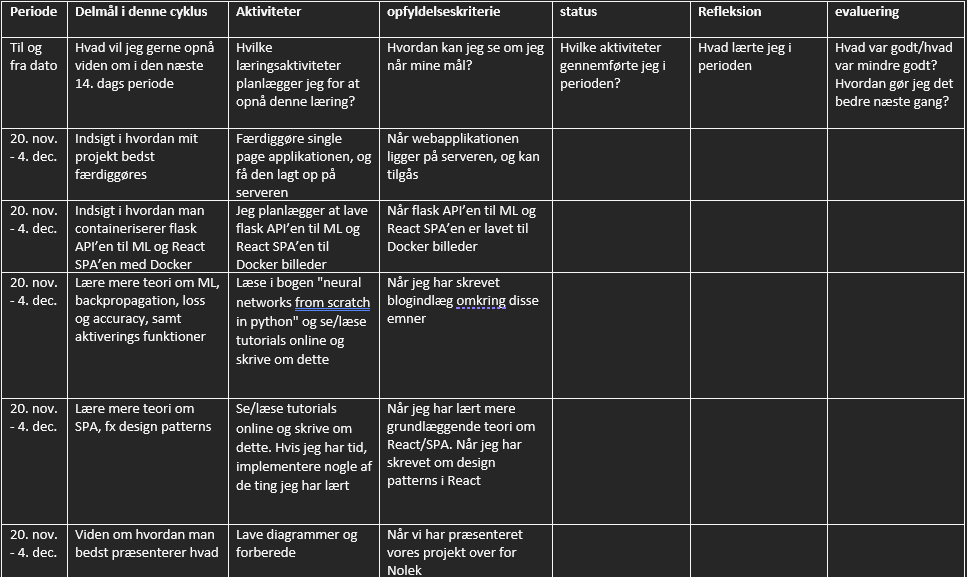
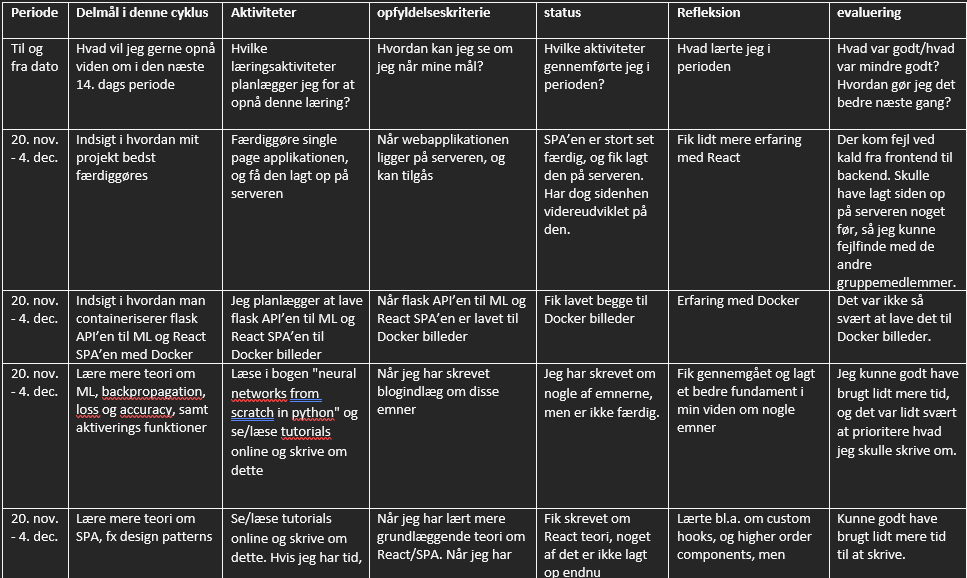
delmal8

Changed region(s): [[0.0, 0.0, 1.0, 1.0]]

diff --git a/_posts/2023-08-16-partgoals8.html b/_posts/2023-08-16-partgoals8.html
@@ -11,39 +11,61 @@ background: "/img/posts/kanban.png"
   page applikationen færdig, og få den lagt op på serveren, så den kan tilgås
   online.
 </p>
-<!-- <p>
-
+<p>
+  SPA’en er stort set færdig, og fik lagt den på serveren. Har dog sidenhen
+  videreudviklet på den. Jeg fik lidt mere erfaring med React. Der kom fejl ved
+  kald fra frontend til backend. Skulle have lagt siden op på serveren noget
+  før, så jeg kunne fejlfinde med de andre gruppemedlemmer. Derfor har jeg
+  udvidet min API til ML, så den nu også håndterer kald til database.
 </p>
-<br /> -->
+<br />
 <p>
   Delmål 2: Indsigt i hvordan man containeriserer flask API’en til ML og måske
   også React SPA’en med Docker, ved at at lave det til Docker billeder. Jeg er
   endnu ikke sikker på om jeg vil lave SPA'en til et docker billede.
 </p>
-<!-- <p>
+<p>
+  Fik lavet begge til Docker billeder, og derved erfaring med Docker. Det var
+  faktisk ikke så svært som forventet at lave det til Docker billeder.
 </p>
-<br /> -->
+<br />
 <p>
   Delmål 3: Lære mere teori om ML, backpropagation, loss og accuracy, samt
   aktiverings funktioner, ved at læse i bogen "neural networks from scratch in
   python" og se/læse tutorials online og skrive om dette.
 </p>
-<!-- <p>
+<p>
+  Jeg har skrevet om nogle af emnerne, men er ikke færdig. Men jeg fik
+  gennemgået og lagt et bedre fundament i min viden om nogle af emnerne. Jeg
+  kunne godt have brugt lidt mere tid, og det var lidt svært at prioritere hvad
+  jeg skulle skrive om.
 </p>
-<br /> -->
+<br />
 <p>
   Delmål 4: Lære mere teori om SPA, fx design patterns, ved at se og læse
   tutorials online og skrive om dette. Og hvis jeg har tid, implementere nogle
   af de ting jeg har lært.
 </p>
-<!-- <p>
+<p>
+  Fik skrevet om React teori, men noget af det er ikke lagt op på bloggen endnu.
+  Lærte bl.a. om custom hooks, og higher order components, men gennemgik også
+  basal viden. Kunne godt have brugt lidt mere tid til at skrive, og det var
+  igen lidt svært at prioritere hvad jeg skulle skrive om. Går ud fra at jeg vil
+  tage det med til næste og sidste delmål, det samme gælder for ML teori.
 </p>
-<br /> -->
+<br />
 <p>
   Delmål 5: Opnå viden om hvordan man bedst præsenterer hvad jeg har lavet de
   sidste måneder til Nolek, ved at lave diagrammer og forberede præsentation med
   gruppe.
 </p>
+<p>
+  Fik præsenteret for Nolek. Fik feedback om at jeg skulle snakke mere direkte
+  til dem jeg taler til, og ikke kigge så meget på powerpointen/skærmen da jeg
+  præsenterede. Der var tekniske problemer, ikke så meget jeg kan gøre, måske
+  forbedrede mere til næste gang.
+</p>
+<br />
 
 <img src="/img/posts/delmål8.png" style="max-width: 100%" />
 <img src="/img/posts/delmål8part2.png" style="max-width: 100%" />

diff --git a/_posts/2023-08-21-keras.html b/_posts/2023-08-21-keras.html
@@ -130,6 +130,17 @@ background: "/img/posts/Screenshot.png"
 <img src="/img/posts/tfkerasmodelfit.png" style="max-width: 100%" />
 <img src="/img/posts/keraspredict.png" style="max-width: 100%" />
 <p>
+  Jeg har brugt google colab til at skrive koden i, hvilket er en gratis,
+  cloud-baseret platform som tillader dig at skrive og køre Python kode gennem
+  din browser. Den er særligt populær inden for data science og machine
+  learning, fordi den giver adgang til kraftfulde computere og muligheden for at
+  dele kode og resultater med andre. Det virker ligesom et andet kode-notatbogs
+  værktog der hedder jypyter, og google colab bruger også dette som fundament
+  til deres webapplikation. Du er et notatbog-værktøj, hvor du kan skrive kode,
+  se resultaterne og tilføje noter og kommentarer. Jeg har hidtil anvendt en IDE
+  der hedder "pycharm" til at skrive python kode i.
+</p>
+<p>
   Kilde: Deep Learning with Python, TensorFlow, and Keras tutorial -
   https://www.youtube.com/watch?v=wQ8BIBpya2k&ab_channel=sentdex og How Many
   Hidden Layers and Neurons does a Neural Network Need -
